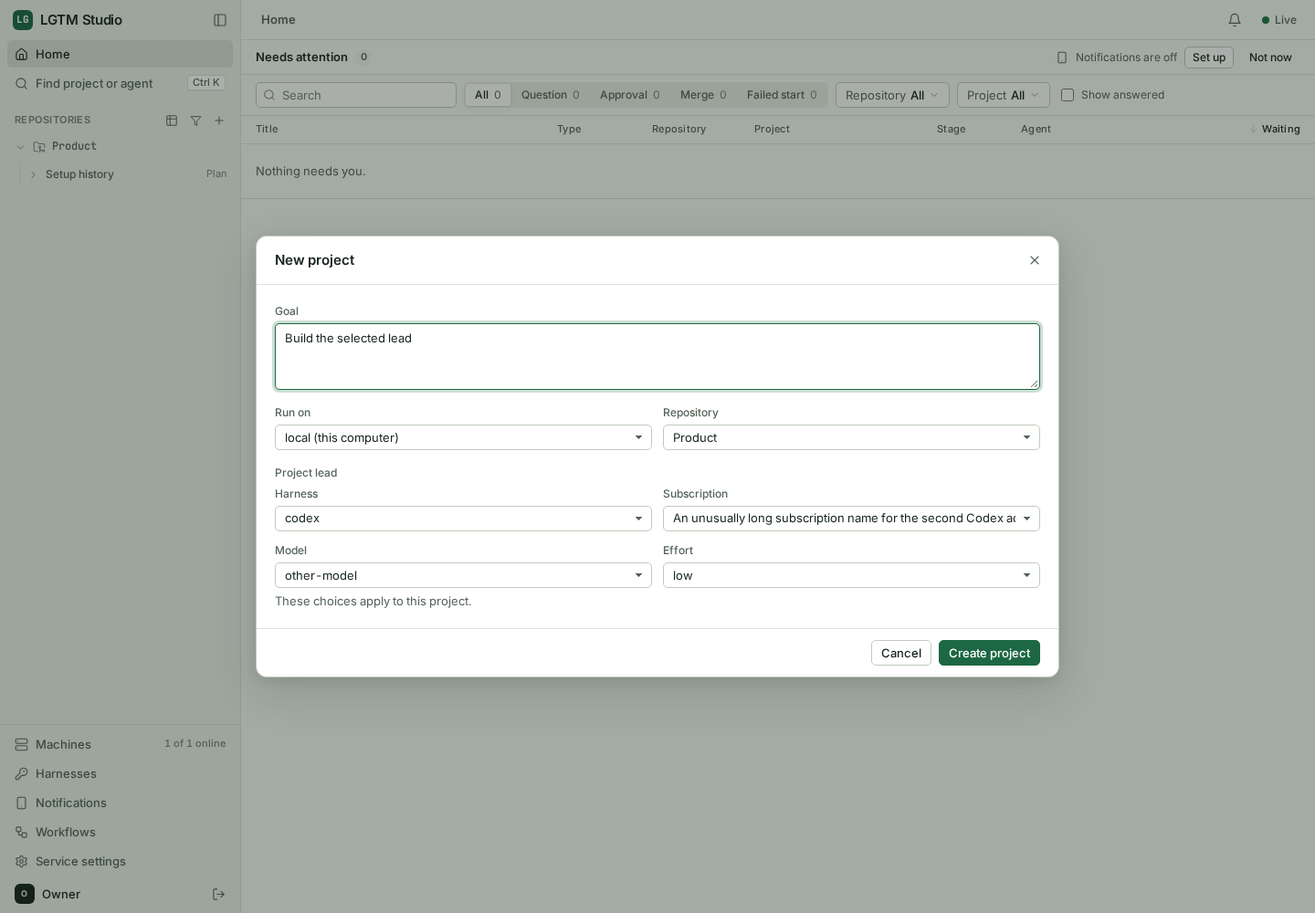
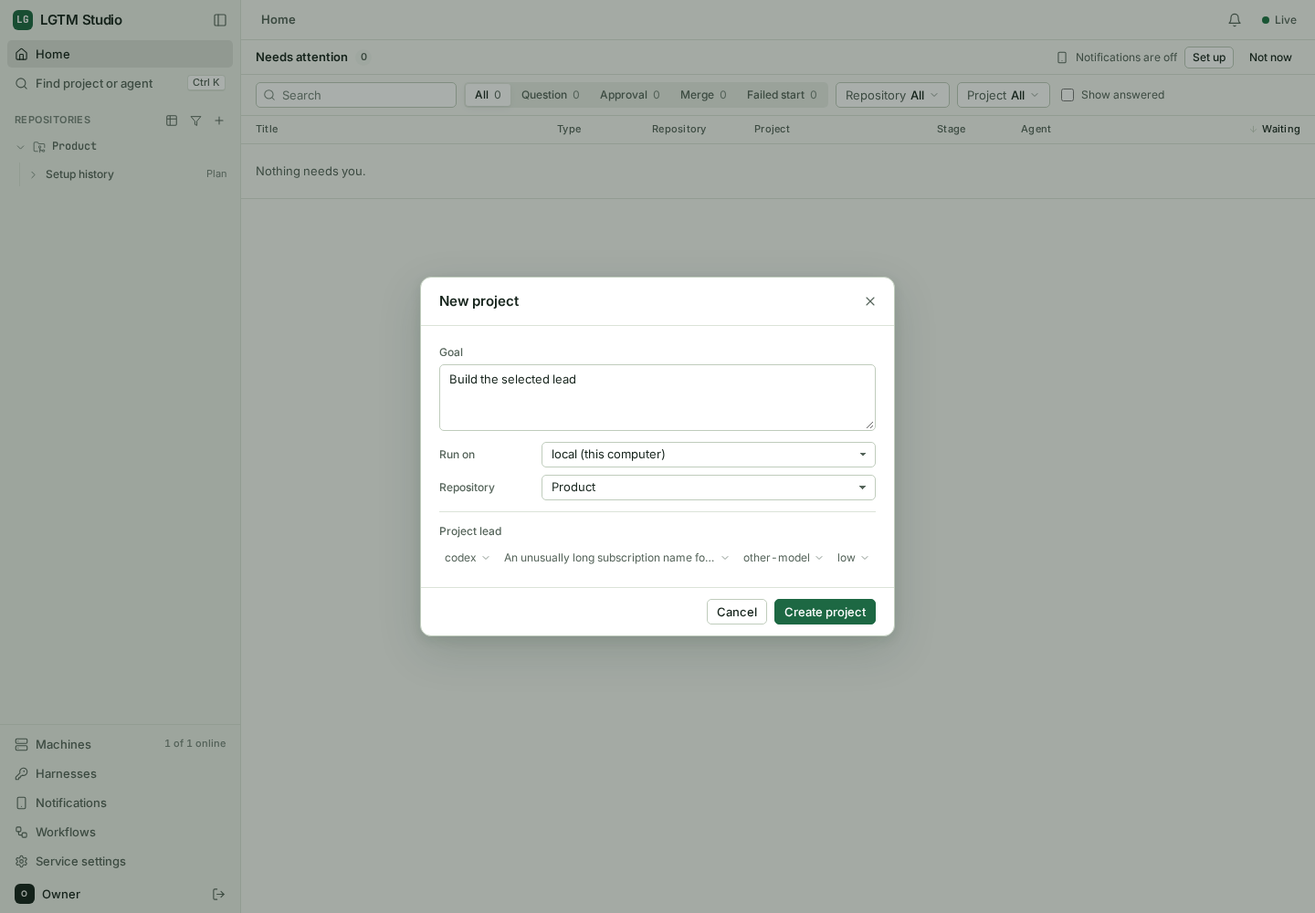
Use chat-style lead dropdowns in a compact new project dialog

Changed region(s): [[0.1875, 0.248, 0.8125, 0.744]]

diff --git a/design/mock/js/project-lead.js b/design/mock/js/project-lead.js
@@ -1,6 +1,7 @@
 // The same four controls run on sample data and on the authenticated website.
-import { html, useState, useEffect, live } from './lib.js';
+import { html, useState, useEffect, live, Icon } from './lib.js';
 import { HARNESSES, usableSubscription } from './data.js';
+import { Menu } from './ui.js';
 import * as liveGit from './live/git.js';
 import { loadProjectLeadChoices } from './live/board.js';
 
@@ -61,25 +62,24 @@ export function useProjectLead(s, machine) {
     const account = accounts.find((a) => a.harness === id);
     setSelected({ harness: id, accountId: account?.id || '', model: '', effort: '' });
   };
-  const fields = html`<div class="field"><span class="label">Project lead</span>
-    <div style="display:grid;grid-template-columns:repeat(2,minmax(0,1fr));gap:var(--space-3)">
-      <div class="field" style="min-width:0"><label for="np-lead-harness">Harness</label>
-        <select id="np-lead-harness" class="select" value=${selected.harness} onChange=${(e) => changeHarness(e.target.value)} disabled=${!initialized || !accounts.length}>
-          ${!accounts.length && html`<option value="">No signed-in harness</option>`}
-          ${[...new Set(accounts.map((a) => a.harness))].map((id) => html`<option value=${id}>${HARNESSES[id].name}</option>`)}</select></div>
-      <div class="field" style="min-width:0"><label for="np-lead-account">Subscription</label>
-        <select id="np-lead-account" class="select" value=${selected.accountId} disabled=${!initialized || !available.length} onChange=${(e) => setSelected({ ...selected, accountId: e.target.value, model: '', effort: '' })}>
-          ${!available.length && html`<option value="">No signed-in subscription</option>`}
-          ${available.map((a) => html`<option value=${a.id}>${a.name}</option>`)}</select></div>
-      <div class="field" style="min-width:0"><label for="np-lead-model">Model</label>
-        <select id="np-lead-model" class="select" value=${model} disabled=${pending || !models.length} onChange=${(e) => setSelected({ ...selected, model: e.target.value, effort: '' })}>
-          <option value="">Harness default</option>${models.map((o) => html`<option value=${o.id}>${o.label || o.id}</option>`)}</select>
-        ${live.on && !pending && !models.length && html`<span class="muted">${current?.reason || 'This harness did not report available models.'}</span>`}</div>
-      <div class="field" style="min-width:0"><label for="np-lead-effort">Effort</label>
-        <select id="np-lead-effort" class="select" value=${effort} disabled=${pending || !efforts.length} onChange=${(e) => setSelected({ ...selected, effort: e.target.value })}>
-          <option value="">Harness default</option>${efforts.map((o) => html`<option value=${o.id}>${o.label || o.id}</option>`)}</select>
-        ${live.on && !pending && !efforts.length && html`<span class="muted">${current?.effortReason || 'This model did not report an effort setting.'}</span>`}</div>
-    </div><span class="muted" aria-live="polite">${pending ? 'Reading the project lead choices…' : 'These choices apply to this project.'}</span>
+  const selectedAccount = available.find((a) => a.id === selected.accountId);
+  const modelLabel = models.find((o) => o.id === model)?.label || model || 'Model';
+  const effortLabel = efforts.find((o) => o.id === effort)?.label || effort || 'Effort';
+  const trigger = (label) => html`<span class="truncate" title=${label}>${label}</span><${Icon} name="chevron-down" size=${12} />`;
+  const fields = html`<div class="field new-project-lead"><span class="label">Project lead</span>
+    <div class="new-project-lead-row" role="group" aria-label="Project lead">
+      <${Menu} class="pick" label="Harness" disabled=${!initialized || !accounts.length} trigger=${trigger(harness?.name || 'Harness')}
+        items=${[...new Set(accounts.map((a) => a.harness))].map((id) => ({ label: HARNESSES[id].name, checked: id === selected.harness, onSelect: () => changeHarness(id) }))} />
+      <${Menu} class="pick" label="Subscription" disabled=${!initialized || !available.length} trigger=${trigger(selectedAccount?.name || 'Subscription')}
+        items=${available.map((a) => ({ label: a.name, hint: a.id, checked: a.id === selected.accountId, onSelect: () => setSelected({ ...selected, accountId: a.id, model: '', effort: '' }) }))} />
+      <${Menu} class="pick" label="Model" disabled=${pending || !models.length} trigger=${trigger(modelLabel)}
+        items=${[{ label: 'Harness default', checked: !model, onSelect: () => setSelected({ ...selected, model: '', effort: '' }) }, ...models.map((o) => ({ label: o.label || o.id, checked: o.id === model, onSelect: () => setSelected({ ...selected, model: o.id, effort: '' }) }))]} />
+      <${Menu} class="pick" label="Effort" disabled=${pending || !efforts.length} trigger=${trigger(effortLabel)}
+        items=${[{ label: 'Harness default', checked: !effort, onSelect: () => setSelected({ ...selected, effort: '' }) }, ...efforts.map((o) => ({ label: o.label || o.id, checked: o.id === effort, onSelect: () => setSelected({ ...selected, effort: o.id }) }))]} />
+    </div>
+    ${pending && html`<span class="muted" aria-live="polite">Reading the project lead choices…</span>`}
+    ${live.on && !pending && !models.length && html`<span class="muted">${current?.reason || 'This harness did not report available models.'}</span>`}
+    ${live.on && !pending && !efforts.length && html`<span class="muted">${current?.effortReason || 'This model did not report an effort setting.'}</span>`}
   </div>`;
   return { lead, why, fields };
 }

diff --git a/packages/web/e2e/studio-lead-selection.spec.ts b/packages/web/e2e/studio-lead-selection.spec.ts
@@ -62,42 +62,49 @@ test("New project launches its selected harness, subscription, model and effort 
           await page.getByRole("button", { name: "New project", exact: true }).first().click()
           const dialog = page.getByRole("dialog", { name: "New project", exact: true })
           await dialog.getByLabel("Goal", { exact: true }).fill("Build the selected lead")
-          const harness = dialog.getByLabel("Harness", { exact: true }), account = dialog.getByLabel("Subscription", { exact: true })
-          const model = dialog.getByLabel("Model", { exact: true }), effort = dialog.getByLabel("Effort", { exact: true })
-          await expect(harness).toHaveValue("claude")
-          await expect(account).toHaveValue("claude-main")
-          await expect(model).toHaveValue("claude-model")
-          await expect(effort).toHaveValue("high")
-          await harness.selectOption("codex")
-          await expect(account).toHaveValue("codex-main")
-          await expect(model.locator("option")).toContainText(["Harness default", "codex-model"])
-          await model.selectOption("codex-model")
-          await expect(effort).toBeEnabled()
-          await effort.selectOption("high")
-          await account.selectOption("codex-other")
-          await expect(model.locator("option")).toContainText(["Harness default", "other-model", "quick-model"])
-          await expect(model.locator('option[value="codex-model"]')).toHaveCount(0)
-          await expect(effort).toHaveValue("")
-          await model.selectOption("quick-model")
+          const harness = dialog.getByRole("button", { name: "Harness", exact: true }), account = dialog.getByRole("button", { name: "Subscription", exact: true })
+          const model = dialog.getByRole("button", { name: "Model", exact: true }), effort = dialog.getByRole("button", { name: "Effort", exact: true })
+          const pick = async (control: typeof model, name: string | RegExp) => {
+            await expect(control).toBeEnabled()
+            await control.click()
+            await dialog.getByRole("menuitemradio", { name, exact: typeof name === "string" }).click()
+          }
+          await expect(harness).toHaveText(/claude/i)
+          await expect(account).toHaveText("Claude personal")
+          await expect(model).toHaveText("claude-model")
+          await expect(effort).toHaveText("high")
+          await pick(harness, /^codex$/i)
+          await expect(account).toHaveText("Codex personal")
+          await pick(model, "codex-model")
+          await pick(effort, "high")
+          await pick(account, /codex-other/)
+          await expect(model).toHaveText("Model")
+          await expect(effort).toHaveText("Effort")
+          await model.click()
+          await expect(dialog.getByRole("menuitemradio", { name: "codex-model", exact: true })).toHaveCount(0)
+          await dialog.getByRole("menuitemradio", { name: "quick-model", exact: true }).click()
           await expect(effort).toBeDisabled()
           await expect(dialog).toContainText("This harness did not report effort choices.")
-          await model.selectOption("other-model")
-          await expect(effort).toBeEnabled()
-          await effort.selectOption("low")
+          await pick(model, "other-model")
+          await pick(effort, "low")
           for (const width of [1440, 390]) {
             await page.setViewportSize({ width, height: width === 390 ? 844 : 1000 })
             await expect(dialog).toBeVisible()
             expect(await dialog.evaluate((el) => el.scrollWidth <= el.clientWidth)).toBe(true)
             for (const control of [harness, account, model, effort]) {
               const box = await control.boundingBox()
-              expect(box?.width).toBeGreaterThan(100)
+              expect(box?.width).toBeGreaterThan(30)
               expect(box!.x + box!.width).toBeLessThanOrEqual(width)
               await expect.poll(() => control.evaluate((el) => {
                 const b = el.getBoundingClientRect()
-                return document.elementFromPoint(b.x + b.width / 2, b.y + b.height / 2) === el
+                return el.contains(document.elementFromPoint(b.x + b.width / 2, b.y + b.height / 2))
               })).toBe(true)
             }
             await page.screenshot({ path: info.outputPath(`new-project-${width}.png`), animations: "disabled" })
+            await account.click()
+            await expect(dialog.getByRole("menuitemradio", { name: /codex-other/ })).toBeVisible()
+            await page.screenshot({ path: info.outputPath(`new-project-subscription-${width}.png`), animations: "disabled" })
+            await account.click()
           }
           await dialog.getByRole("button", { name: "Create project", exact: true }).click()
           await expect(dialog).toHaveCount(0)

diff --git a/design/mock/js/dialogs.js b/design/mock/js/dialogs.js
@@ -118,21 +118,21 @@ function NewProject({ s, d }) {
   const hasRepo = isNew || !!r?.folders[machine];
   const why = m.status !== 'online' ? `${m.name} is offline.` : !hasRepo ? null : !goal.trim() ? 'Write the goal.' : isNew && !newRepo.trim() ? 'Name the new repository.' : selection.why;
   const create = () => { if (why || !hasRepo || creating) return; if (!live.on) act.closeDialog(); act.createProject({ repo, goal: goal.trim(), machine, subscription: selection.lead?.account.accountId, lead: selection.lead, newRepo: isNew ? newRepo.trim() : null }); };
-  return html`<${Dialog} title="New project" size="wide" onClose=${act.closeDialog} onSubmit=${create}
+  return html`<${Dialog} title="New project" size="new-project" onClose=${act.closeDialog} onSubmit=${create}
     foot=${html`${why && html`<span class="why">${why}</span>`}<button type="button" class="btn" onClick=${act.closeDialog}>Cancel</button><button type="submit" class="btn primary" disabled=${!!why || !hasRepo || creating} aria-busy=${creating}>${creating ? 'Creating…' : 'Create project'}</button>`}>
     <div class="field"><label for="np-goal">Goal</label>
       <textarea id="np-goal" class="textarea" rows="3" value=${goal} onInput=${(e) => setGoal(e.target.value)} placeholder="Make a mock for the LGTM Studio phone app" autofocus
         onKeyDown=${(e) => { if (e.key === 'Enter' && !e.shiftKey && !e.isComposing) { e.preventDefault(); create(); } }}></textarea></div>
-    <div style="display:grid;grid-template-columns:1fr 1fr;gap:var(--space-3)">
-      <div class="field"><label for="np-machine">Run on</label>
+    <div class="new-project-rows">
+      <div class="field new-project-row"><label for="np-machine">Run on</label>
         <select id="np-machine" class="select" value=${machine} onChange=${(e) => setMachine(e.target.value)}>
           ${s.machines.filter((x) => !live.on || x.id === 'local').map((x) => html`<option value=${x.id} disabled=${x.status !== 'online'}>${x.name}${x.status !== 'online' ? ' (offline)' : x.here ? ' (this computer)' : ''}</option>`)}</select></div>
-      <div class="field"><label for="np-repo">Repository</label>
+      <div class="field new-project-row"><label for="np-repo">Repository</label>
         <select id="np-repo" class="select" value=${repo} onChange=${(e) => setRepo(e.target.value)}>
           ${s.repos.map((x) => html`<option value=${x.id}>${x.name}${x.folders[machine] ? '' : ` (not on ${m.name})`}</option>`)}
           <option value="__new">New repository…</option></select></div>
     </div>
-    ${isNew && html`<div class="field"><label for="np-newrepo">New repository name</label><input id="np-newrepo" class="input" value=${newRepo} onInput=${(e) => setNewRepo(e.target.value)} placeholder="notes-site" /></div>`}
+    ${isNew && html`<div class="field new-project-row"><label for="np-newrepo">New repository name</label><input id="np-newrepo" class="input" value=${newRepo} onInput=${(e) => setNewRepo(e.target.value)} placeholder="notes-site" /></div>`}
     ${!hasRepo && r && html`<div class="callout warn"><${Icon} name="triangle-alert" size=${15} /><span class="grow">${r.name} is not on ${m.name}.</span>
       <button type="button" class="btn sm" onClick=${() => { act.openDialog({ type: 'add-repository', machine, repo, back: { type: 'new-project', machine, repo, goal } }); }}>Add to ${m.name}</button></div>`}
     ${selection.fields}

diff --git a/design/mock/css/base.css b/design/mock/css/base.css
@@ -239,6 +239,28 @@ code { font-family: var(--font-mono); font-size: .92em; background: var(--color-
 .dialog-body { padding: var(--space-5); overflow: auto; display: grid; gap: var(--space-4); align-content: start; }
 .dialog-foot { display: flex; align-items: center; gap: var(--space-2); justify-content: flex-end; padding: var(--space-3) var(--space-5); border-top: 1px solid var(--color-line); }
 .dialog-foot .why { margin-right: auto; color: var(--color-muted); font-size: var(--text-sm); }
+/* New project is a compact form: one setting per row, one shared label edge. */
+.dialog.new-project { width: min(520px, 100%); }
+.new-project .dialog-body { gap: var(--space-3); }
+.new-project-rows { display: grid; gap: var(--space-2); min-width: 0; }
+.new-project-row.field { display: grid; grid-template-columns: 100px minmax(0, 1fr); align-items: center; gap: var(--space-2) var(--space-3); min-width: 0; }
+.new-project-row > .select, .new-project-row > .input { min-width: 0; width: 100%; }
+.new-project-row > .muted { grid-column: 2; }
+.new-project-lead { border-top: 1px solid var(--color-line); padding-top: var(--space-3); }
+.new-project-lead > .label { margin-bottom: var(--space-1); }
+.new-project-lead-row { display: flex; align-items: center; gap: 2px; min-width: 0; }
+.new-project-lead-row > .pick { flex: 0 1 auto; }
+.new-project-lead-row > .pick[aria-label="Subscription"] { flex: 1 1 0; }
+.new-project-lead-row > .pick[aria-label="Model"] { max-width: 50%; }
+.new-project-lead-row > .pick:first-child, .new-project-lead-row > .pick:last-of-type { flex-shrink: 0; }
+.new-project-lead-row > .pick[disabled] { opacity: .6; cursor: default; }
+.new-project-lead-row .menu-item.two > .row { min-width: 0; }
+.new-project-lead-row .menu-item.two > .row > span { overflow-wrap: anywhere; }
+.new-project .dialog-foot { flex-wrap: wrap; }
+@media (max-width: 440px) {
+  .new-project-row.field { grid-template-columns: 84px minmax(0, 1fr); gap: var(--space-2); }
+}
+
 .toasts { position: fixed; top: calc(var(--topbar) + 8px); right: var(--space-4); z-index: 90; display: grid; gap: var(--space-2); justify-items: end; pointer-events: none; }
 .toast { pointer-events: auto; display: flex; align-items: center; gap: var(--space-2); max-width: 380px; padding: 8px 12px; border-radius: var(--radius-md); background: var(--color-surface); border: 1px solid var(--color-line-strong); box-shadow: var(--shadow-2); animation: rise var(--motion-slow) var(--ease); }
 .toast .icon { color: var(--color-success); }

diff --git a/packages/web/e2e/studio.spec.ts b/packages/web/e2e/studio.spec.ts
@@ -780,11 +780,14 @@ test("design mock: still opens on its sample data with no console error", async 
     // The same New project controls remain usable without an engine connection.
     await page.getByRole("button", { name: "New project", exact: true }).first().click()
     const newProject = page.getByRole("dialog", { name: "New project", exact: true })
-    await newProject.getByLabel("Harness", { exact: true }).selectOption("codex")
-    await expect(newProject.getByLabel("Subscription", { exact: true })).toBeEnabled()
-    await newProject.getByLabel("Model", { exact: true }).selectOption({ index: 1 })
-    await newProject.getByLabel("Effort", { exact: true }).selectOption("Low")
-    await expect(newProject.getByLabel("Effort", { exact: true })).toHaveValue("Low")
+    await newProject.getByRole("button", { name: "Harness", exact: true }).click()
+    await newProject.getByRole("menuitemradio", { name: "Codex", exact: true }).click()
+    await expect(newProject.getByRole("button", { name: "Subscription", exact: true })).toBeEnabled()
+    await newProject.getByRole("button", { name: "Model", exact: true }).click()
+    await newProject.getByRole("menuitemradio").nth(1).click()
+    await newProject.getByRole("button", { name: "Effort", exact: true }).click()
+    await newProject.getByRole("menuitemradio", { name: "Low", exact: true }).click()
+    await expect(newProject.getByRole("button", { name: "Effort", exact: true })).toHaveText("Low")
     await newProject.getByRole("button", { name: "Cancel", exact: true }).click()
     // The mock's own login still accepts any password but "wrong".
     await page.getByRole("button", { name: "Log out" }).click()

diff --git a/design/mock/js/ui.js b/design/mock/js/ui.js
@@ -119,7 +119,7 @@ export function Rich({ text, pid }) {
 
 // ---- menus --------------------------------------------------------------------
 // items: { label, icon, onSelect, checked, danger, disabled, why, sub, hint } | { sep: true } | { heading }
-export function Menu({ trigger, items, align = 'start', side = 'bottom', class: cls, label, width, header }) {
+export function Menu({ trigger, items, align = 'start', side = 'bottom', class: cls, label, width, header, disabled = false }) {
   const [open, setOpen] = useState(false);
   const [pos, setPos] = useState(null);
   const [active, setActive] = useState(-1);
@@ -149,7 +149,7 @@ export function Menu({ trigger, items, align = 'start', side = 'bottom', class: 
     return () => { removeEventListener('pointerdown', away, true); removeEventListener('keydown', key, true); removeEventListener('resize', place); };
   }, [open, active, list.length]);
   return html`
-    <button ref=${btn} type="button" class=${cls} aria-haspopup="menu" aria-expanded=${open} aria-label=${label} onClick=${(e) => { e.stopPropagation(); setOpen(!open); }}>${trigger}</button>
+    <button ref=${btn} type="button" class=${cls} aria-haspopup="menu" aria-expanded=${open} aria-label=${label} disabled=${disabled} onClick=${(e) => { e.stopPropagation(); setOpen(!open); }}>${trigger}</button>
     ${open && html`<div ref=${menu} class="menu" role="menu" style=${{ left: (pos?.left ?? -9999) + 'px', top: (pos?.top ?? -9999) + 'px', width: width ? width + 'px' : null }} onClick=${(e) => e.stopPropagation()}>
       ${header}
       ${list.map((it, i) => it.sep ? html`<div class="menu-sep" key=${i}></div>`

diff --git a/design/builds/new-project-lead.md b/design/builds/new-project-lead.md
@@ -1,7 +1,8 @@
 # New project lead selection
 
-The owner requested four editable lead choices in the existing New project dialog on 2026-11-19.
-The existing dialog is the reference for the placement, native fields, spacing and footer.
+The owner requested editable harness, subscription, model and effort choices on 2026-11-19.
+He then rejected the wide paired-field layout and explicitly chose the chat composer's single row of dropdowns.
+The reference is the existing chat composer, including its shared Menu component and pick button style.
 The Field and Dusk palettes remain the design contract.
 
 ## Screen plan
@@ -9,58 +10,61 @@ The Field and Dusk palettes remain the design contract.
 | Region | Container and density | Interactive parts |
 | --- | --- | --- |
 | Goal | Existing form field, three textarea rows. | Native textarea. |
-| Placement | Existing two-column form row. | Native machine and repository selects. |
-| Project lead | Two form rows, two columns, with no additional card. | Native harness, subscription, model and effort selects. |
-| Submission | Existing dialog footer. | Native Cancel and Create project buttons. |
+| Placement | Two compact rows, with a shared label edge. | Native machine and repository selects. |
+| Project lead | One compact toolbar row, with a hairline above the section. | Four shared Menu dropdowns, using the chat composer's pick style. |
+| Submission | Existing footer, able to wrap a longer refusal sentence. | Native Cancel and Create project buttons. |
 
-There is no main-page offset because this is a dialog above the existing page.
-The lead fields use the existing form styles, with zero minimum grid-column width so long subscription names cannot enlarge the dialog.
-No new motion, component library, navigation or route is introduced.
+The dialog is at most 520 pixels wide, reduced from 880 pixels.
+There is no main-page offset because this is a dialog.
+The lead row keeps the harness, subscription, model and effort together at both shipping widths.
+Only the subscription takes the remaining row width, so a long account name cannot squeeze an ordinary model name to a single letter.
+Long trigger values can shorten, as in the chat composer.
+Their titles retain the complete value.
+The subscription menu wraps its full names and shows the account identifiers.
+No new component library, navigation, route or motion was introduced.
 
 ## Behavior and validation
 
 The saved lead supplies the initial selections.
 Changing the harness selects an available account for that harness.
-Changing the account clears the old model and effort.
-Changing the model clears the old effort and reads its actual choices.
+Changing the account clears the previous model and effort.
+Changing the model clears the previous effort and reads its actual choices.
 Creation waits for the current report and uses a named account.
-An unavailable report offers the harness default and explains the missing choices.
+The shared Menu component now accepts an optional disabled flag.
+Existing callers remain enabled by default.
+Model and effort dropdowns are disabled while loading or unavailable, and explanatory text appears beneath the row.
 The authenticated engine validates the lead before allocating a project.
+The saved global defaults stay unchanged.
 
-## Captured states and checks
+## Captures and checks
 
-The populated dialog was captured at 1440 by 1000 pixels and 390 by 844 pixels.
-The browser fixture includes a long subscription name, multiple harnesses, multiple accounts for one harness, and a model with no reported effort choices.
-The journey checks initial defaults, account-specific model options, clearing stale choices, disabled unavailable effort, successful creation and the actual runner input.
-Every select fits its viewport and passes center hit-testing at both widths.
-The captures disable resize transitions after the browser checks actual visibility.
+The populated dialog and its open subscription menu were captured at 1440 by 1000 pixels and 390 by 844 pixels.
+The fixture includes a long subscription name, multiple harnesses, two accounts for one harness, and a model without reported effort choices.
+The real-engine browser journey selects through the shared menus and verifies the launched runner input.
+It also verifies defaults, account-specific options, clearing stale choices, disabled effort, bounds and center hit testing.
+The existing standalone sample journey exercises the same four dropdowns and passes.
+The Studio and root TypeScript checks pass after the interaction changes.
+The website build and whitespace check pass.
+The earlier engine regressions are unchanged by this layout revision.
+The whole repository suite was not rerun for the layout change.
 
-The space gate was manual, using the screen-build space rules and the two captures.
-There are no repeated cards, covered controls, excessive row gaps or horizontal overflow in the dialog.
+The space gate was manual, using the screen-build space rules and all four captures.
+No repeated cards, covered closed controls or horizontal overflow were found.
+An open menu can temporarily cover footer actions, as in the existing shared component.
 List-row and main-list-offset checks do not apply to this form.
 No automated eight-check space report was produced.
-The optional detector reported no findings on the changed form files.
 
 ## Independent visual review
 
-The reviewer inspected the captures without the plan or source and returned a ship verdict.
-Three minor findings concern clipped native-select labels: the long subscription at both widths, and the existing machine label on the narrow layout.
-Those are retained because the native selector opens its full option label and the controls remain operable.
-No blocker or major finding was reported.
+A fresh reviewer inspected the final captures without the source or screen plan and returned a ship verdict with no findings.
+The earlier stacked-field proposal was superseded by the owner's explicit instruction to use one chat-style toolbar row.
+The final review checked both the closed row and the full-name subscription menu.
 
-## Verification and limits
+## Evidence and limits
 
-The full TypeScript checks pass.
-The creation-recovery suite passes all 26 tests.
-The Studio suite had 793 passing tests and one outdated exact mapping expectation, which was corrected; the two affected mapping suites then passed all 33 tests.
-An independent agent reran the two new engine regressions and the browser journey successfully.
-The existing standalone mock smoke journey also passes.
-The credits check and whitespace check pass.
-
-The browser test uses the real engine, authenticated API and durable project creation, with a fake harness runner and synthetic credentials.
-Physical mobile devices and real provider launches were not exercised by that test.
-The review was behavioral and visual; a separate full code-review round was not run.
-Loading and unavailable-effort states were exercised, but only the final populated state was captured.
-
-The captures are [desktop](new-project-lead-desktop.png) and [narrow](new-project-lead-narrow.png).
-
+The closed dialog captures are [desktop](new-project-lead-desktop.png) and [narrow](new-project-lead-narrow.png).
+The open subscription captures are [desktop](new-project-subscription-desktop.png) and [narrow](new-project-subscription-narrow.png).
+The fixture uses the real engine, authenticated API and durable project creation, with a fake harness runner and synthetic credentials.
+Physical mobile devices and real provider launches were not exercised by the fixture.
+Loading and unavailable-effort states were exercised, but only the final populated and open-menu states were captured.
+There was no separate full code-review round for this layout revision.

diff --git a/docs/issues.md b/docs/issues.md
@@ -20472,3 +20472,20 @@ Creation records the resolved lead in its existing durable intent and does not c
 The engine regression tests observed the original incorrect launch before the fix.
 They now check the launched lead, unchanged defaults, duplicate prevention, and refusal of an unavailable account before filesystem allocation.
 The browser journey uses the built website at a test engine's root, changes the harness and account, checks model-dependent efforts, and checks the launched lead.
+
+
+## 1463. New project spread a short form across a wide two-column dialog
+
+State: Fixed on 2026-11-19, following the owner's feedback.
+
+The dialog used the shared 880-pixel wide size for six short settings.
+It placed machine and repository beside each other, then paired the four project lead selectors in two columns.
+The owner found that arrangement wasteful.
+
+The dialog now uses a 520-pixel maximum width.
+Machine and repository occupy compact placement rows.
+The four lead dropdowns share one toolbar row, using the same Menu component and pick style as the chat composer.
+The lead section has a single hairline divider.
+The ordinary confirmation caption is removed, and the loading caption still appears when choices are being read.
+The footer can wrap a longer refusal sentence above its actions.
+The existing live launch journey and standalone sample journey verify that the same controls remain usable.

diff --git a/design/DESIGN.md b/design/DESIGN.md
@@ -970,6 +970,9 @@ New project.
 
 ### New project
 
+- **The project lead controls share one row,** decided by the owner on 2026-11-19. Harness, subscription, model and effort use the same dropdown component and compact pick buttons as the chat composer.
+- **The dialog is at most 520 pixels wide.** Machine and repository have compact placement rows. The lead choices do not become four separate form rows or two paired columns.
+
 - **The fields are Run on, Repository, Project name, Goal, and Lead subscription.** The
   first run hides Goal, because the first project's goal comes from the onboarding
   conversation.
